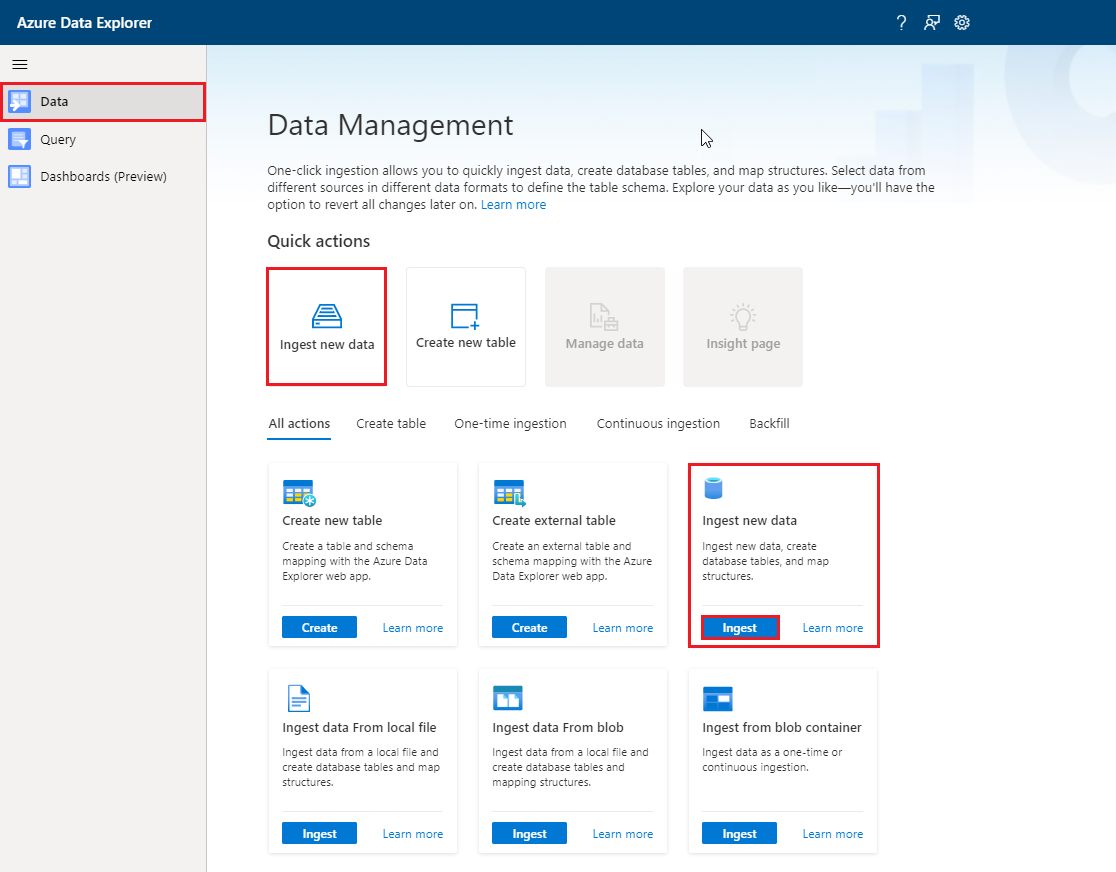
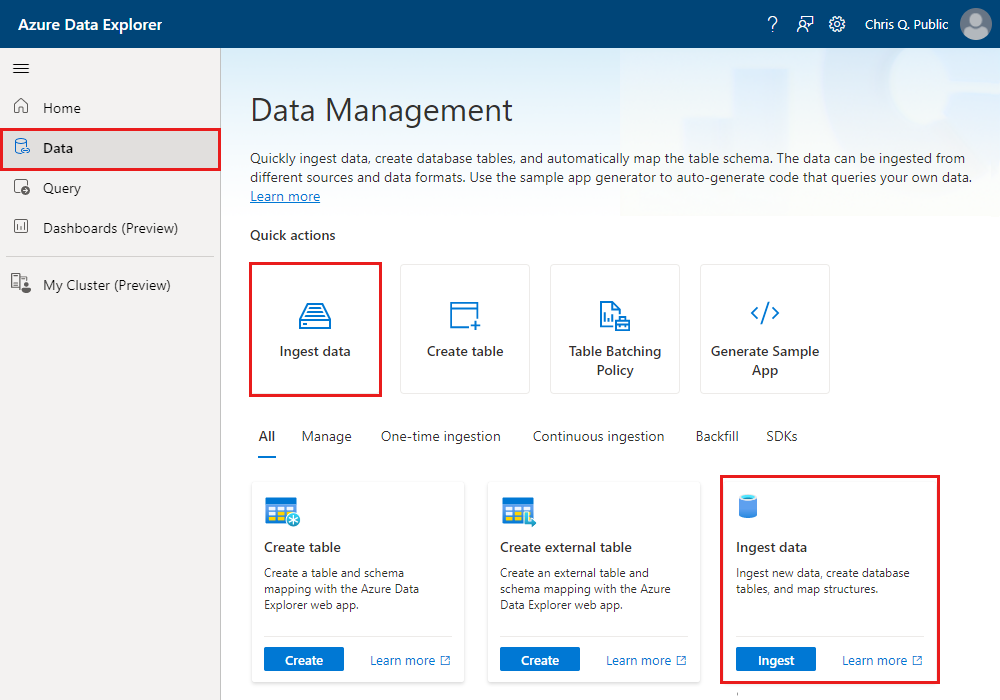
screenshot updates

diff --git a/data-explorer/one-click-ingestion-new-table.md b/data-explorer/one-click-ingestion-new-table.md
@@ -36,11 +36,11 @@ For information about ingesting data into an existing table in Azure Data Explor
 
 1. In the left menu of the Azure Data Explorer web UI, select **Data**.
 
-1. From the **Quick actions** section, select **Ingest new data**. Alternatively, from the **All actions** section, select **Ingest new data** and then **Ingest**.
+1. From the **Quick actions** section, select **Ingest data**. Alternatively, from the **All** section, select **Ingest data** and then **Ingest**.
 
     :::image type="content" source="media/one-click-ingestion-new-table/ingest-new-data.png" alt-text="Screenshot for the Azure Data Explorer web U I where you select one-click ingestion for a table.":::
 
-1. In the **Ingest new data** window, the **Destination** tab is selected. The **Cluster** and **Database** fields are automatically populated.
+1. In the **Ingest data** window, the **Destination** tab is selected. The **Cluster** and **Database** fields are automatically populated.
 
     [!INCLUDE [one-click-cluster](includes/one-click-cluster.md)]
 
@@ -104,14 +104,16 @@ If you get the following error message when ingesting from a storage account:
 
 ## Filter data
 
-If you want to, filter the data to ingest only files that begin end with specific characters.
+* If you want to, filter the data to ingest only files that begin end with specific characters.
 
-For example, filter for all files that begin with the word *.csv* extension.
+  * For example, filter for all files that begin with the word *.csv* extension.
 
-:::image type="content" source="media/one-click-ingestion-new-table/from-container-with-filter.png" alt-text="One click ingestion filter.":::
+  * :::image type="content" source="media/one-click-ingestion-new-table/from-container-with-filter.png" alt-text="One click ingestion filter.":::
 
-The system will select one of the files at random and the schema will be generated based on that  **Schema defining file**. You can select a different file.
+  * The system will select one of the files at random and the schema will be generated based on that  **Schema defining file**. You can select a different file.
 
+* You can also filter the folder path to limit your search for a file. When you enter a URL in the **Link to source** field, possible files to use to define the schema are listed.
+  
 ## Edit the schema
 
 Select **Next: Schema** to view and edit your table column configuration. The service automatically identifies if the schema is compressed by looking at the name of the source.
